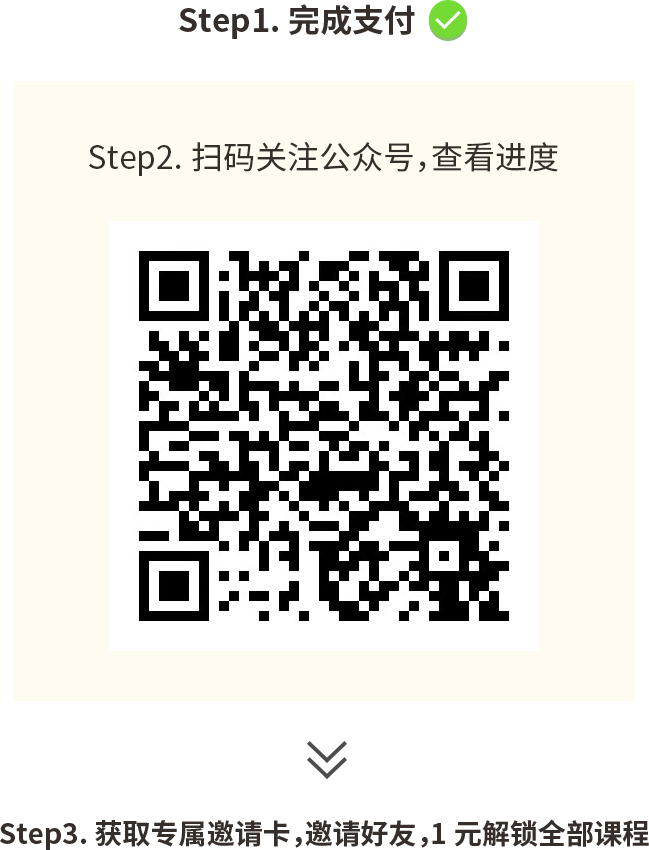
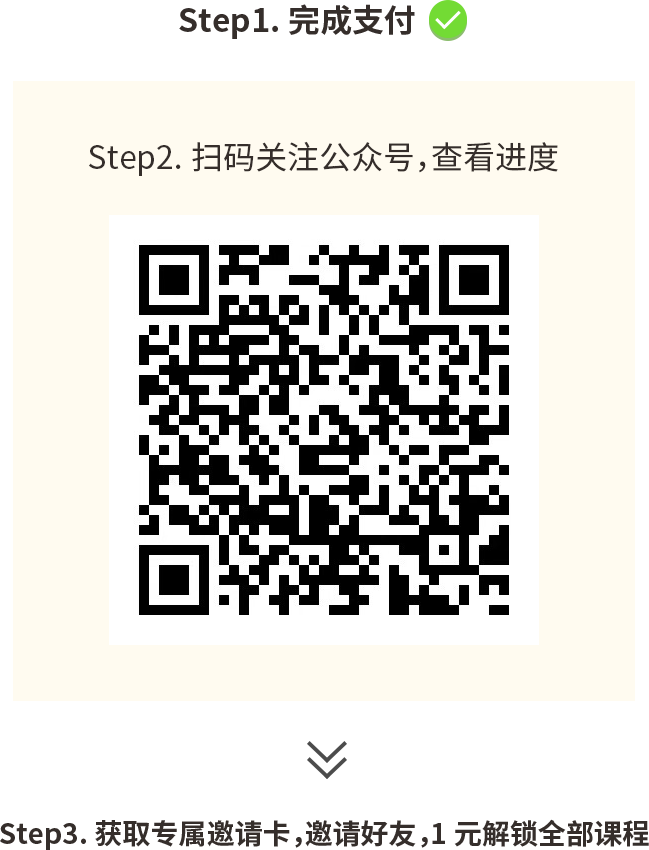
no message

Changed region(s): [[0.2157, 0.2753, 0.8012, 0.7341]]

diff --git a/src/views/activity/active_11/active_11.vue b/src/views/activity/active_11/active_11.vue
@@ -71,7 +71,6 @@ import { getBeaconsApi } from '@/api/pages/home'
   export default class HomeIndex extends Vue {
     buy_state = 'left'
     isShow = false
-    // ******************* 已加入 **********************
     pickedParams = { // 页面所需参数
       tagId: 0
     }
@@ -81,7 +80,9 @@ import { getBeaconsApi } from '@/api/pages/home'
     demo01_index = 0
     statistics = {}
 
-    communityId = 'c18c80c6c47c3047356b5b733f0bf784'
+
+    //正式c18c80c6c47c3047356b5b733f0bf784
+    communityId = '02b81714611b454f2daa2ea5fa53b5be'
     communityId2 = ''
     communityMsg = {}
     communityMsg2 = {}
